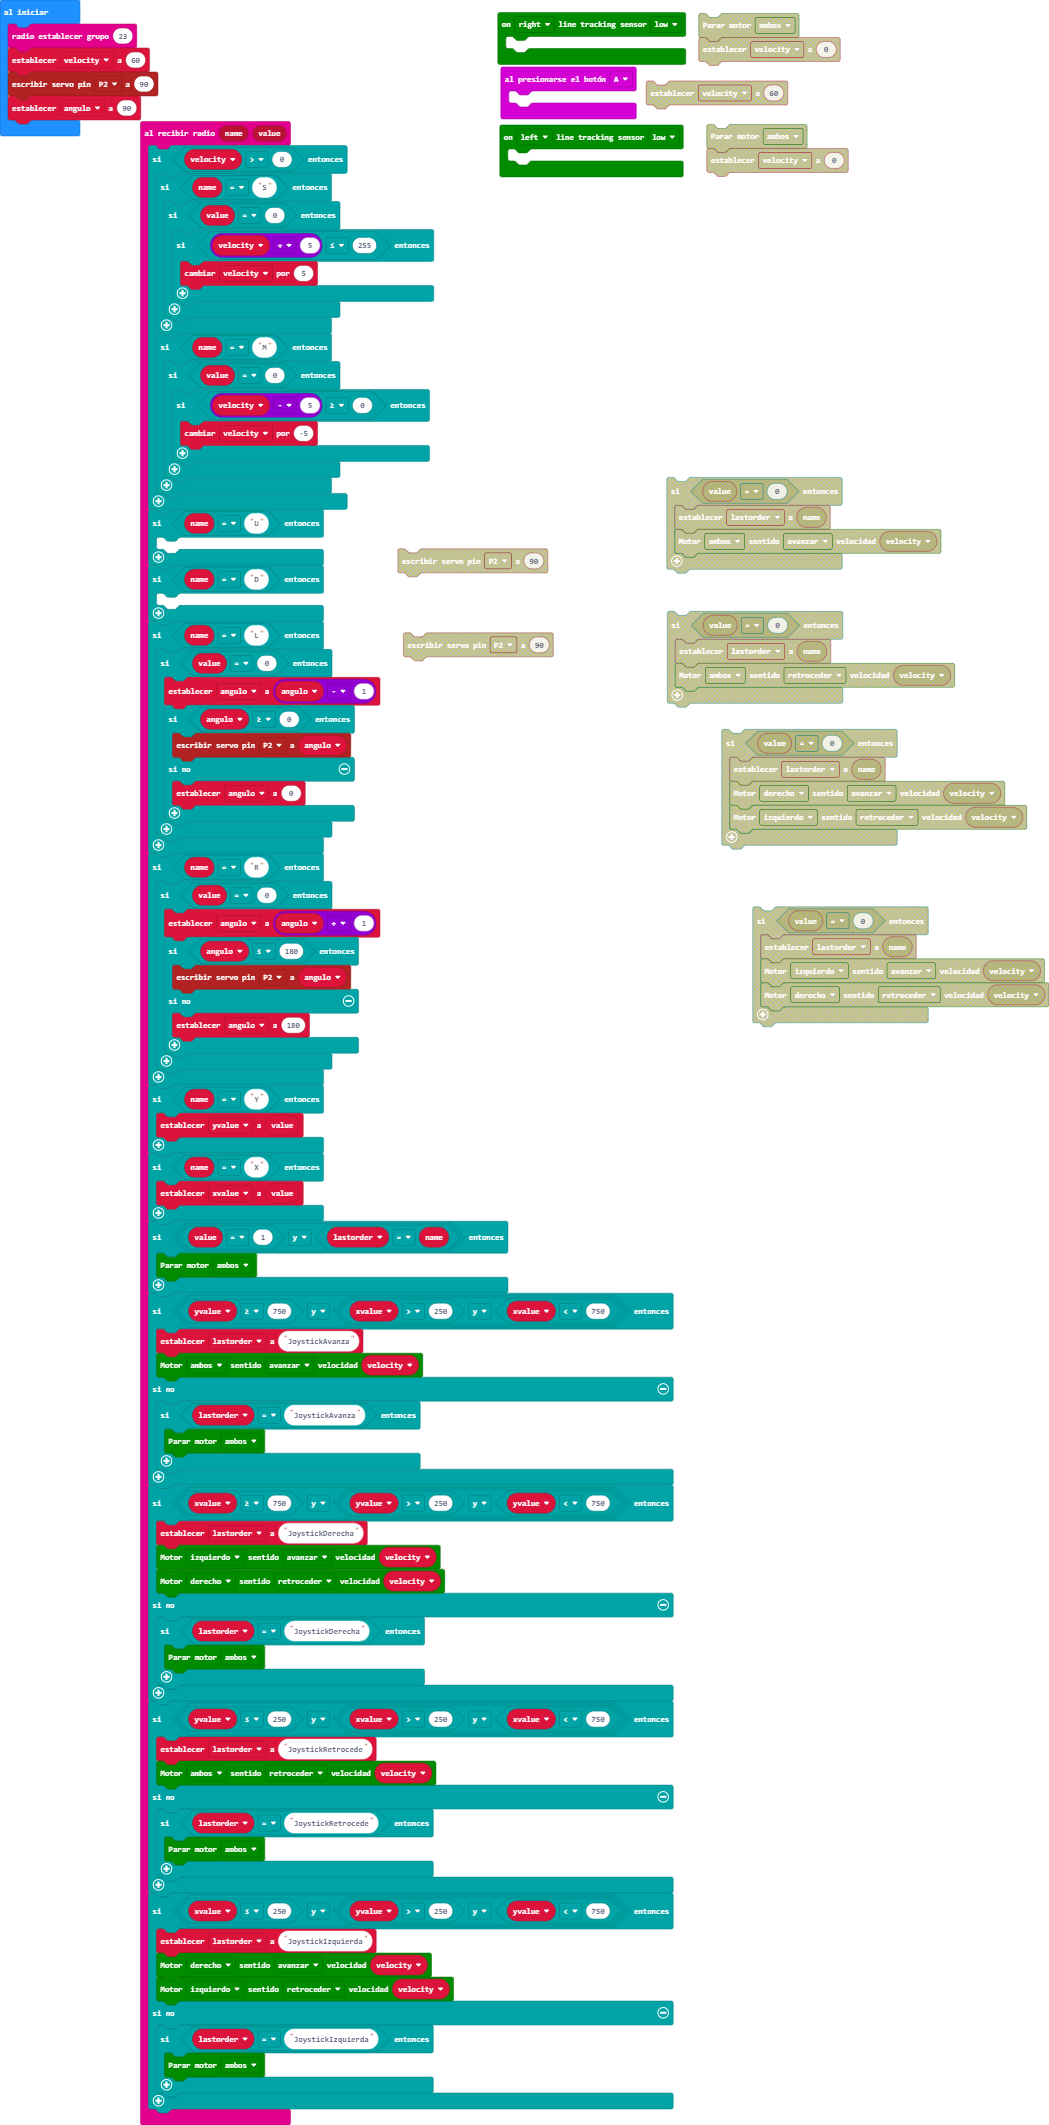
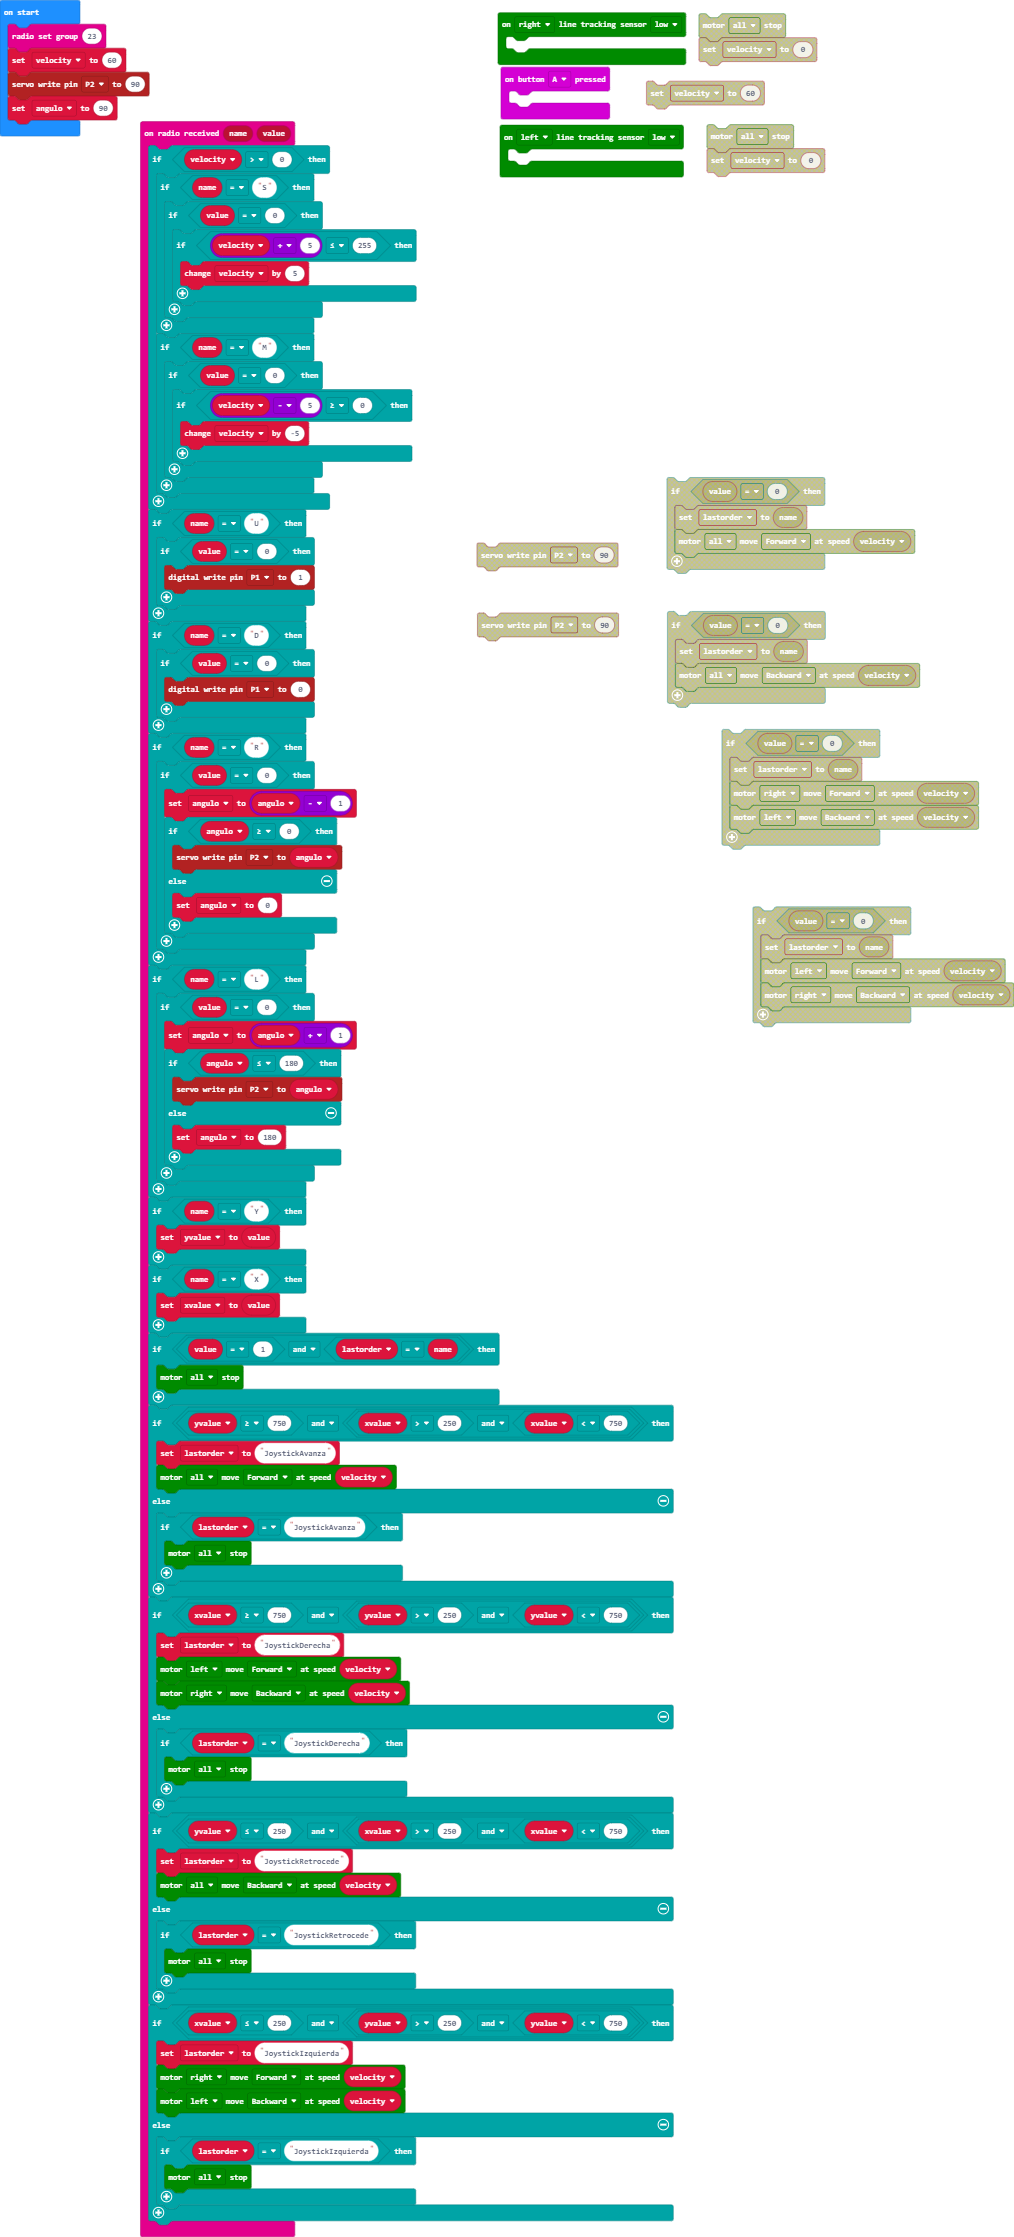
Update main.blocks, main.ts

Changed region(s): [[0.0, 0.0, 0.6726, 1.0], [0.3669, 0.1864, 1.0, 0.4969], [0.4586, 0.0, 0.8254, 0.0932]]

diff --git a/main.ts b/main.ts
@@ -25,12 +25,16 @@ radio.onReceivedValue(function (name, value) {
         }
     }
     if (name == "U") {
-    	
+        if (value == 0) {
+            pins.digitalWritePin(DigitalPin.P1, 1)
+        }
     }
     if (name == "D") {
-    	
+        if (value == 0) {
+            pins.digitalWritePin(DigitalPin.P1, 0)
+        }
     }
-    if (name == "L") {
+    if (name == "R") {
         if (value == 0) {
             angulo = angulo - 1
             if (angulo >= 0) {
@@ -40,7 +44,7 @@ radio.onReceivedValue(function (name, value) {
             }
         }
     }
-    if (name == "R") {
+    if (name == "L") {
         if (value == 0) {
             angulo = angulo + 1
             if (angulo <= 180) {
